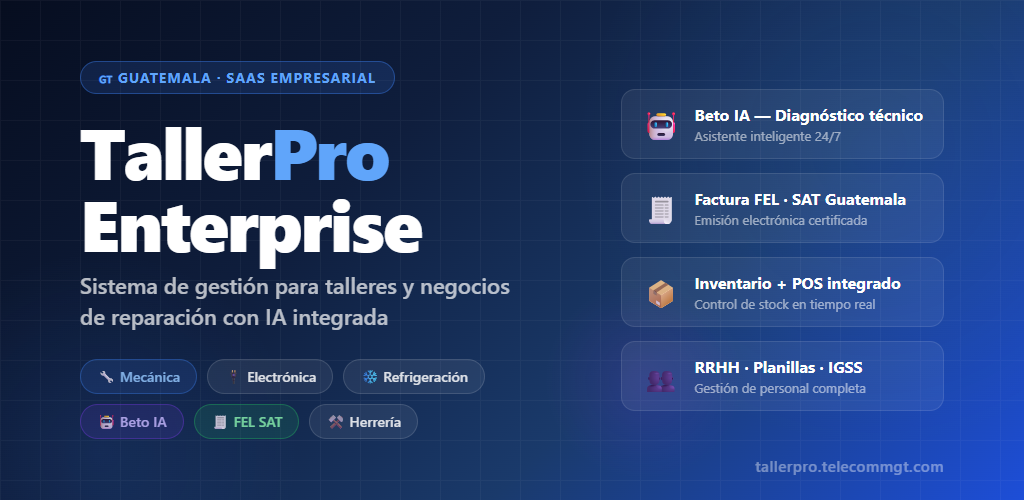
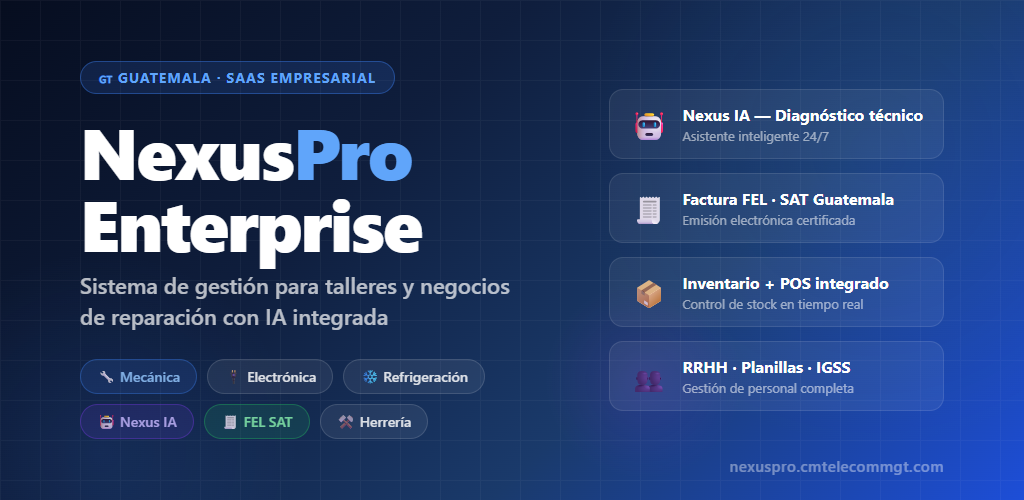
fix: eliminar referencias residuales a "Beto" (renombrado a Nexus)
El asistente de IA se renombró a "Nexus" pero el Edge Function
ai-assistant seguia usando "Beto" como nombre por defecto (AI_NOMBRE),
por lo que el asistente se seguia presentando como Beto en producción
si el secret no estaba configurado. También quedaban menciones sueltas
en privacidad.html, comentarios de CSS/SQL, y en los mockups de
capturas usados para la ficha de Play Store (uno de ellos con el
nombre de marca viejo "TallerPro" literal).

- ai-assistant/index.ts: default de NOMBRE ahora es "Nexus"
- privacidad.html: sección 6.3 ahora dice "Nexus IA" (ya coincidía con terminos.html)
- Mockups de Play Store corregidos y re-renderizados (TallerPro -> NexusPro,
  Beto IA -> Nexus IA, dominio viejo -> nexuspro.cmtelecommgt.com)
- screen3-beto.html renombrado a screen3-nexus.html

diff --git a/supabase/functions/ai-assistant/index.ts b/supabase/functions/ai-assistant/index.ts
@@ -1,5 +1,5 @@
 // ═══════════════════════════════════════════════════════
-// Edge Function: ai-assistant — "Beto", asistente mecánico de NexusPro.
+// Edge Function: ai-assistant — "Nexus", asistente mecánico de NexusPro.
 // Proxy seguro a la API de Claude. ANTHROPIC_API_KEY solo en el servidor.
 // 503 elegante si no está configurada.
 //
@@ -29,10 +29,10 @@ const json = (body: unknown, status = 200) =>
 // Se puede subir de modelo por taller exigente vía secret AI_MODEL.
 const MODELO = Deno.env.get("AI_MODEL") ?? "claude-haiku-4-5-20251001";
 const EFFORT = Deno.env.get("AI_EFFORT") ?? "medium";
-const NOMBRE = Deno.env.get("AI_NOMBRE") ?? "Beto";
+const NOMBRE = Deno.env.get("AI_NOMBRE") ?? "Nexus";
 const LIMITE_DEFAULT = 300; // consultas IA/mes si el tenant no tiene ai_limite_mes
 
-/* Conocimiento específico por módulo para que Beto lo aplique según el tenant */
+/* Conocimiento específico por módulo para que Nexus lo aplique según el tenant */
 const MOD_CONOCIMIENTO: Record<string, string> = {
   ordenes:      "🔧 TALLER MECÁNICO: Órdenes de trabajo (OT-NNNN), diagnóstico DTC/OBD-II, procedimientos de reparación, torques, intervalos de mantenimiento preventivo por km/tiempo.",
   vehiculos:    "🚗 VEHÍCULOS: Fichas de vehículos, historial de servicio, kilometraje, alertas de mantenimiento.",
@@ -45,9 +45,9 @@ const MOD_CONOCIMIENTO: Record<string, string> = {
   clientes:     "👥 CLIENTES: Registro, historial de servicio, fidelización y contacto.",
 };
 
-/* Construye la identidad y conocimiento de Beto según módulos activos del tenant.
+/* Construye la identidad y conocimiento de Nexus según módulos activos del tenant.
    Si modulos=[] (sin override) → experto en todo (comportamiento legacy). */
-function buildBetoPersona(nombre: string, modulos: string[]): string {
+function buildNexusPersona(nombre: string, modulos: string[]): string {
   const tiene = (m: string) => !modulos.length || modulos.includes(m);
   const tieneMec  = tiene("ordenes") || tiene("vehiculos");
   const tieneHer  = tiene("herreria");
@@ -84,7 +84,7 @@ REGLA IMPORTANTE: Responde SIEMPRE preguntas técnicas sobre diagnóstico, falla
 }
 
 /* Persona base como fallback (todo incluido) */
-const BASE_GT = buildBetoPersona(NOMBRE, []);
+const BASE_GT = buildNexusPersona(NOMBRE, []);
 
 const SUGERENCIA_RECURSOS = `
 Cuando la consulta sea sobre una falla, código DTC, procedimiento de reparación o
@@ -350,10 +350,10 @@ Deno.serve(async (req) => {
         .select("modulos_activos, plan").eq("id", tenantId).maybeSingle();
       const mods: string[] = Array.isArray(tnMods?.modulos_activos) && tnMods.modulos_activos.length
         ? tnMods.modulos_activos : [];
-      personaDinamica = buildBetoPersona(NOMBRE, mods);
+      personaDinamica = buildNexusPersona(NOMBRE, mods);
     }
 
-    // Historial de las últimas 3 conversaciones para dar contexto continuo a Beto
+    // Historial de las últimas 3 conversaciones para dar contexto continuo a Nexus
     let historialCtx: Array<{ role: "user" | "assistant"; content: string }> = [];
     if (modo === "chat") {
       const { data: prevConvs } = await asCaller

diff --git a/screenshots/screen3-nexus.html b/screenshots/screen3-nexus.html
@@ -20,15 +20,15 @@ body {
   background:linear-gradient(135deg,#0f1e3d,#1a2d50);
   border-bottom:1px solid rgba(255,255,255,0.08);
 }
-.beto-avatar {
+.nexus-avatar {
   width:80px; height:80px; border-radius:50%;
   background:linear-gradient(135deg,#7c3aed,#4f46e5,#3b82f6);
   display:flex; align-items:center; justify-content:center;
   font-size:36px;
   box-shadow:0 0 30px rgba(124,58,237,0.4);
 }
-.beto-info h2 { font-size:34px; font-weight:900; }
-.beto-info p { font-size:22px; opacity:.6; margin-top:4px; }
+.nexus-info h2 { font-size:34px; font-weight:900; }
+.nexus-info p { font-size:22px; opacity:.6; margin-top:4px; }
 .online-dot {
   width:16px; height:16px; border-radius:50%;
   background:#22c55e; margin-left:auto;
@@ -38,7 +38,7 @@ body {
 .chat { padding:30px 40px; display:flex; flex-direction:column; gap:20px; }
 
 .msg { display:flex; gap:16px; max-width:85%; }
-.msg.beto { align-self:flex-start; }
+.msg.nexus { align-self:flex-start; }
 .msg.user { align-self:flex-end; flex-direction:row-reverse; }
 
 .msg .av {
@@ -54,7 +54,7 @@ body {
 .bubble {
   padding:22px 26px; border-radius:20px; font-size:24px; line-height:1.55;
 }
-.msg.beto .bubble {
+.msg.nexus .bubble {
   background:rgba(124,58,237,0.15);
   border:1px solid rgba(124,58,237,0.3);
   border-bottom-left-radius:6px;
@@ -114,19 +114,19 @@ body {
 <div class="status-bar"><span>9:41</span><span>● ● ●</span></div>
 
 <div class="header">
-  <div class="beto-avatar">🤖</div>
-  <div class="beto-info">
-    <h2>Beto IA</h2>
+  <div class="nexus-avatar">🤖</div>
+  <div class="nexus-info">
+    <h2>Nexus IA</h2>
     <p>Asistente técnico especializado</p>
   </div>
   <div class="online-dot"></div>
 </div>
 
 <div class="chat">
-  <div class="msg beto">
+  <div class="msg nexus">
     <div class="av">🤖</div>
     <div class="bubble">
-      ¡Hola! Soy <strong>Beto</strong>, tu asistente técnico. Puedo ayudarte con diagnósticos de vehículos, electrónica, electrodomésticos, refrigeración y más. ¿En qué te ayudo hoy?
+      ¡Hola! Soy <strong>Nexus</strong>, tu asistente técnico. Puedo ayudarte con diagnósticos de vehículos, electrónica, electrodomésticos, refrigeración y más. ¿En qué te ayudo hoy?
     </div>
   </div>
 
@@ -137,7 +137,7 @@ body {
     </div>
   </div>
 
-  <div class="msg beto">
+  <div class="msg nexus">
     <div class="av">🤖</div>
     <div class="bubble">
       Eso es una <strong>fuga de refrigerante</strong>, casi seguro. Los síntomas son clásicos:

diff --git a/screenshots/feature-graphic.html b/screenshots/feature-graphic.html
@@ -104,13 +104,13 @@ h1 span { color:#60a5fa; }
 <div class="content">
   <div class="left">
     <div class="badge">🇬🇹 Guatemala · SaaS Empresarial</div>
-    <h1>Taller<span>Pro</span><br>Enterprise</h1>
+    <h1>Nexus<span>Pro</span><br>Enterprise</h1>
     <p class="tagline">Sistema de gestión para talleres y negocios<br>de reparación con IA integrada</p>
     <div class="pills">
       <div class="pill blue">🔧 Mecánica</div>
       <div class="pill">🔌 Electrónica</div>
       <div class="pill">❄ Refrigeración</div>
-      <div class="pill purple">🤖 Beto IA</div>
+      <div class="pill purple">🤖 Nexus IA</div>
       <div class="pill green">🧾 FEL SAT</div>
       <div class="pill">⚒ Herrería</div>
     </div>
@@ -120,7 +120,7 @@ h1 span { color:#60a5fa; }
     <div class="feat-row">
       <div class="ic">🤖</div>
       <div>
-        <div class="txt">Beto IA — Diagnóstico técnico</div>
+        <div class="txt">Nexus IA — Diagnóstico técnico</div>
         <div class="sub">Asistente inteligente 24/7</div>
       </div>
     </div>
@@ -148,6 +148,6 @@ h1 span { color:#60a5fa; }
   </div>
 </div>
 
-<div class="url">nexuspro.telecommgt.com</div>
+<div class="url">nexuspro.cmtelecommgt.com</div>
 </body>
 </html>

diff --git a/privacidad.html b/privacidad.html
@@ -321,8 +321,8 @@
     </ul>
     <p>NexusPro se reserva el derecho de eliminar contenido que viole estas condiciones y de suspender cuentas que incurran en infracciones reiteradas.</p>
 
-    <h3>6.3 Información técnica de Beto IA</h3>
-    <p>Las respuestas del asistente Beto son orientativas y de carácter informativo. No sustituyen el criterio de un técnico certificado, asesor legal, médico, ni cualquier otro profesional. NexusPro no garantiza la exactitud absoluta de las respuestas de IA y no se hace responsable por decisiones tomadas con base en ellas.</p>
+    <h3>6.3 Información técnica de Nexus IA</h3>
+    <p>Las respuestas del asistente Nexus son orientativas y de carácter informativo. No sustituyen el criterio de un técnico certificado, asesor legal, médico, ni cualquier otro profesional. NexusPro no garantiza la exactitud absoluta de las respuestas de IA y no se hace responsable por decisiones tomadas con base en ellas.</p>
   </section>
 
   <section id="derechos">

diff --git a/screenshots/screen5-modulos.html b/screenshots/screen5-modulos.html
@@ -131,7 +131,7 @@ body {
   <div class="feat">
     <div class="ic">🤖</div>
     <div class="txt">
-      <h4>Beto IA — Asistente Técnico</h4>
+      <h4>Nexus IA — Asistente Técnico</h4>
       <p>Diagnósticos y asesoría por inteligencia artificial</p>
     </div>
   </div>
@@ -139,7 +139,7 @@ body {
 
 <div class="bottom-cta">
   <h2>Un sistema, todos tus negocios</h2>
-  <p>Configura solo los módulos que necesitas · nexuspro.telecommgt.com</p>
+  <p>Configura solo los módulos que necesitas · nexuspro.cmtelecommgt.com</p>
 </div>
 
 </body>

diff --git a/screenshots/screen1-dashboard.html b/screenshots/screen1-dashboard.html
@@ -104,7 +104,7 @@ body {
 </div>
 
 <div class="top-bar">
-  <div class="brand">Taller<span>Pro</span></div>
+  <div class="brand">Nexus<span>Pro</span></div>
   <div class="avatar">JR</div>
 </div>
 
@@ -180,7 +180,7 @@ body {
   </div>
   <div class="nav-item">
     <div class="icon">🤖</div>
-    <span>Beto IA</span>
+    <span>Nexus IA</span>
   </div>
   <div class="nav-item">
     <div class="icon">⚙</div>

diff --git a/css/components.css b/css/components.css
@@ -276,7 +276,7 @@
 }
 .modal-close:hover { background: var(--surface2); color: var(--text); }
 
-/* Encabezado destacado (p.ej. chat de Beto): se ajusta al color de
+/* Encabezado destacado (p.ej. chat de Nexus): se ajusta al color de
    acento del tema activo automáticamente vía var(--amber) */
 .modal-header-ia {
   background: var(--amber); border-bottom-color: var(--amber);
